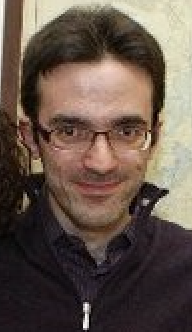
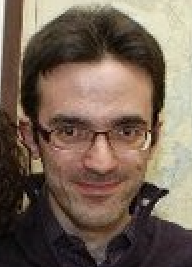
Fine tune pictures

diff --git a/pages/coq-team.html b/pages/coq-team.html
@@ -338,7 +338,7 @@
     <div class="components">Ring, <code>vm_compute</code></div>
   </div>
   <div class="person">
-    <div class="picture"><img src="/files/team/huynhtrankhanh.jpg" alt="Huỳnh Trần Khanh" width="170"/></div>
+    <div class="picture"><img src="/files/team/huynhtrankhanh.png" alt="Huỳnh Trần Khanh" width="200"/></div>
     <div class="name"><a href="https://huynhtrankhanh.com/">Huỳnh Trần Khanh</a></div>
     <div class="nickname">huynhtrankhanh</div>
     <div class="position">Student</div>
